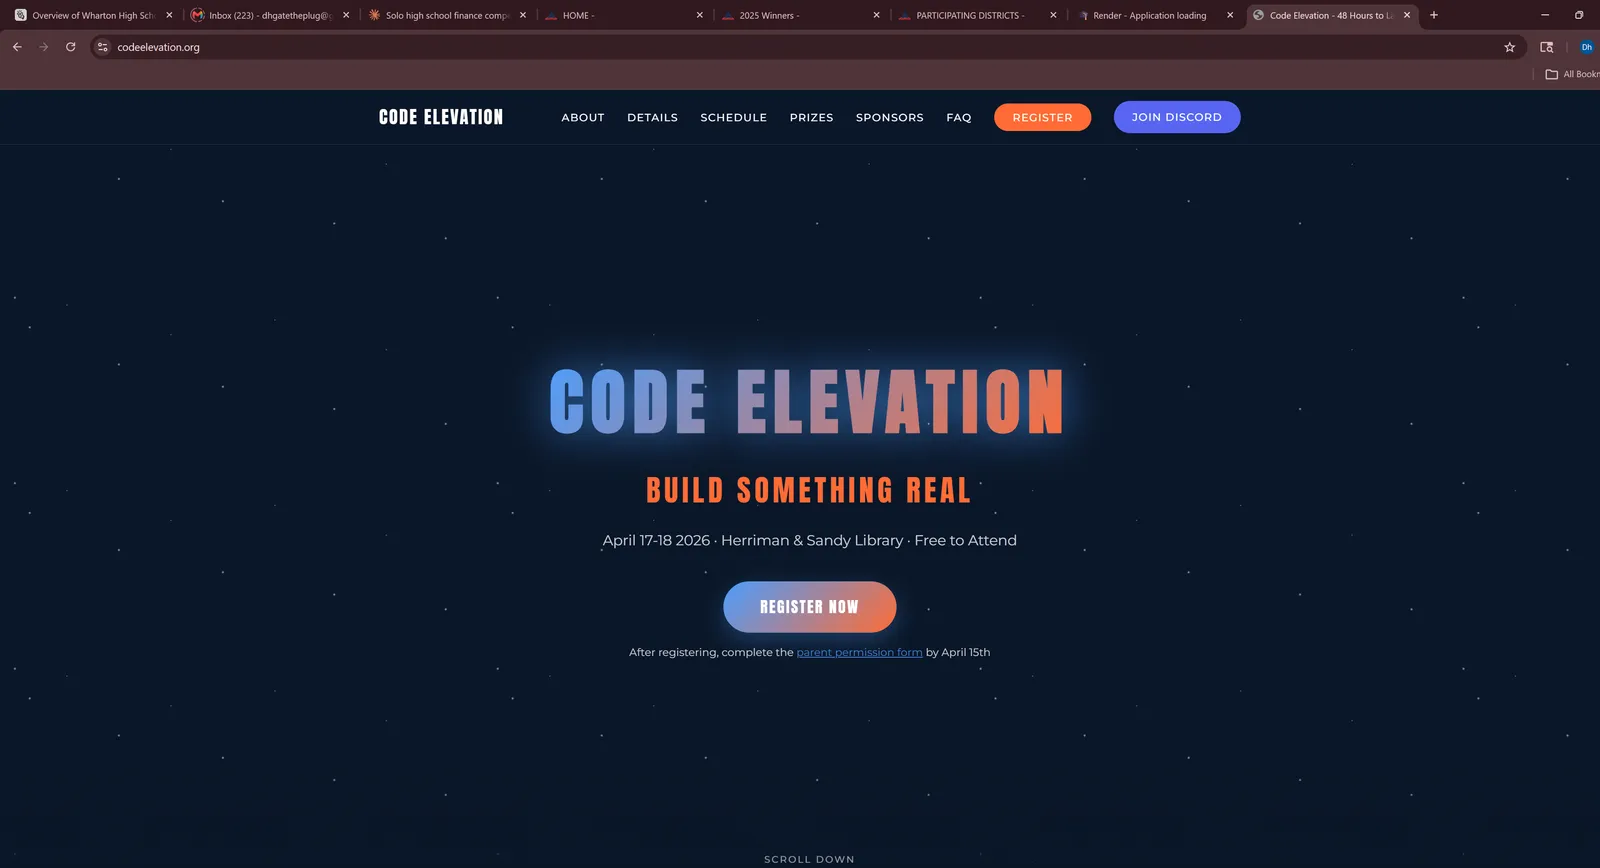
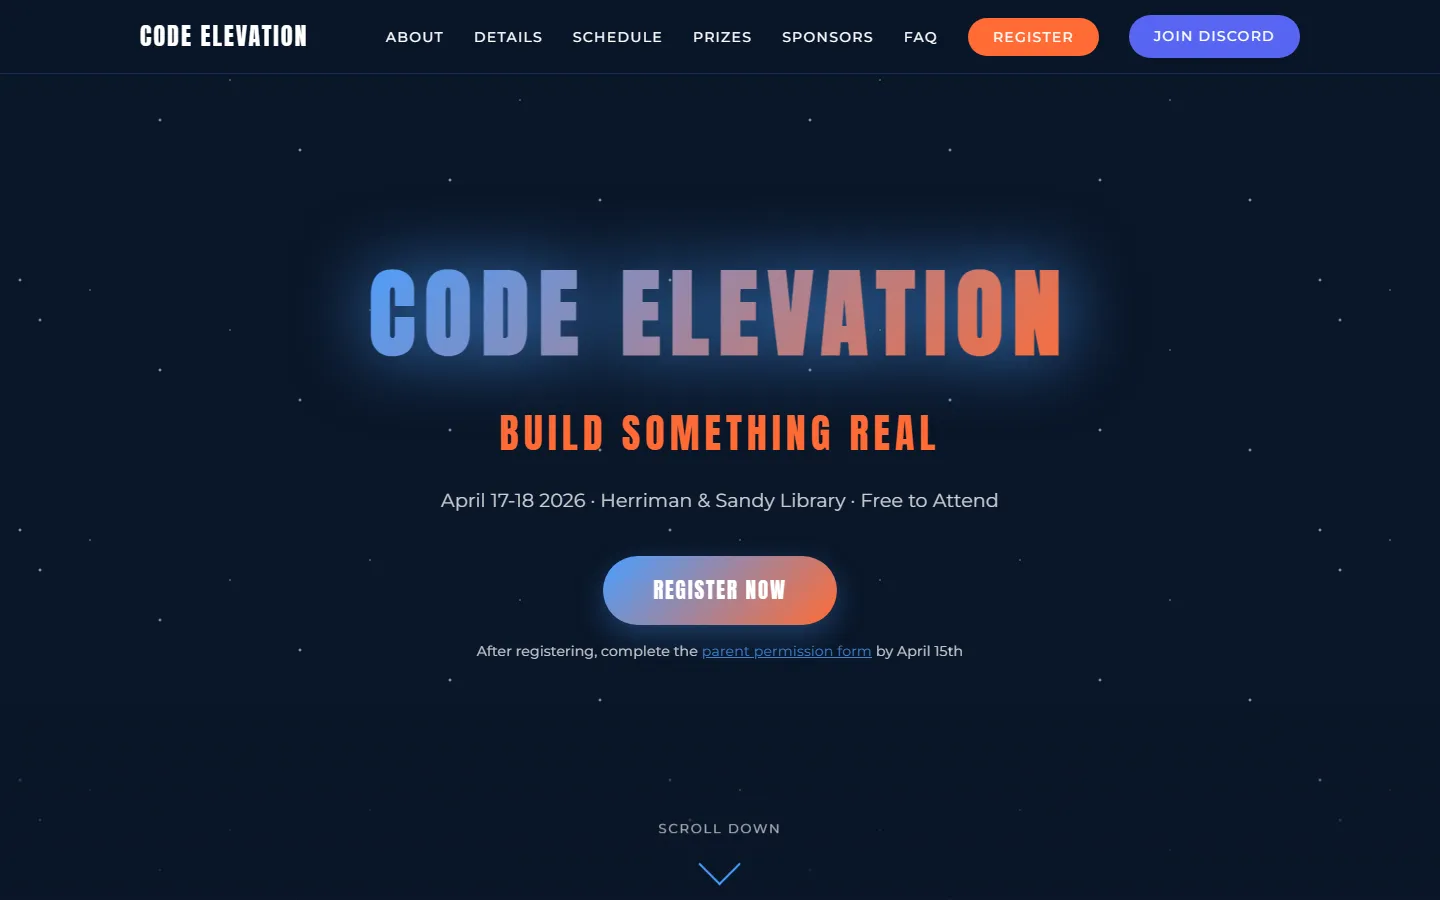
sync with live repos/sites: RD as MCP server + DOI, TS stack, alvien repo public, hermes-agent link, fresh screenshots
- Rebuild Dossier: description/stack corrected to match repo reality (TypeScript,
  ts-morph, Vitest, MCP server framing — was stale Python/AST listing)
- RD: metrics now cite arXiv:2605.17535 for the 0% baseline; links add Zenodo DOI
- Alvien: repo now public, githubUrl linked (was null)
- Skora: hermes-agent repo linked in modal; fresh screenshot (new tagline live)
- Code Elevation: fresh screenshot ('48 Hours to Launch' era)

diff --git a/src/components/CaseStudies.jsx b/src/components/CaseStudies.jsx
@@ -8,15 +8,15 @@ const projects = [
     type: 'Open-source research',
     image: '/images/rebuild-dossier.webp',
     description:
-      'A test harness for rebuilding apps with AI. 512 tests across 83 files pin down the interfaces so a rebuild either matches the original or fails loudly. The paper behind it is submitted to Empirical Software Engineering.',
-    stack: ['Python', 'AST parsing', 'Playwright', 'Mutation testing', 'Docker', 'PostgreSQL'],
+      'An MCP server that reverse-engineers a locked rebuild spec (CLAUDE.md, .claude/ config, mutation-tested tests) from an existing app, so any coding agent can rebuild it cleanly against that spec instead of guessing. 512 tests across 83 files. The paper behind it is submitted to Empirical Software Engineering.',
+    stack: ['TypeScript', 'ts-morph AST', 'Playwright', 'Mutation testing', 'Vitest', 'MCP'],
     metrics: [
-      'AI code migrations used to score 0% behavioral equivalence; AST-based mutation checks verify behavior without touching the source',
+      'Prior research scored 0% behavioral equivalence with no feedback loop (arXiv:2605.17535); this tool locks contracts before tests to close that gap',
       '512 unit tests across 83 files act as executable specs, so model drift shows up as hard failures instead of quiet regressions',
       'Applied for an LTFF grant to push the benchmarks to higher-tier models',
     ],
     architecture: {
-      summary: 'The idea is to treat specs as mechanically enforced contracts. Instead of hoping a rebuild matches intent, you check it: parse the AST, mutate without destroying, replay behavior through Playwright. The paper is "Mechanically-enforced specs for agentic app rebuilds, and what model-tier failures reveal", sole-authored after an arXiv endorsement from Presset Lutz.',
+      summary: 'Ships as an MCP server: point it at a repo and it reverse-engineers a locked CLAUDE.md, .claude/ config, and mutation-tested suite. It deliberately does not rebuild the app — it produces the spec a coding agent consumes. The paper is "Mechanically-enforced specs for agentic app rebuilds, and what model-tier failures reveal", sole-authored after an arXiv endorsement from Presset Lutz.',
       highlights: [
         'AST-based mutations check behavioral equivalence without corrupting the source under test',
         'Playwright replays end-to-end flows against the enforced contracts',
@@ -31,6 +31,7 @@ const projects = [
       { label: 'Findings', href: 'https://github.com/Parker-Fawcett/rebuild-dossier/blob/master/docs/v0-findings.md' },
       { label: 'Tests', href: 'https://github.com/Parker-Fawcett/rebuild-dossier/tree/master/test' },
       { label: 'Mutators', href: 'https://github.com/Parker-Fawcett/rebuild-dossier/tree/master/src/mutation/mutators' },
+      { label: 'DOI', href: 'https://doi.org/10.5281/zenodo.22036801' },
     ],
   },
   {
@@ -57,6 +58,9 @@ const projects = [
     },
     liveUrl: 'https://skoraadmit.com',
     githubUrl: 'https://github.com/Parker-Fawcett/AdmitPath',
+    links: [
+      { label: 'hermes-agent', href: 'https://github.com/Parker-Fawcett/hermes-agent' },
+    ],
   },
   {
     name: 'CatchAndTrade',
@@ -131,7 +135,7 @@ const projects = [
       ],
     },
     liveUrl: 'https://alvien.onrender.com',
-    githubUrl: null,
+    githubUrl: 'https://github.com/Parker-Fawcett/alvien',
   },
   {
     name: 'Code Elevation',
